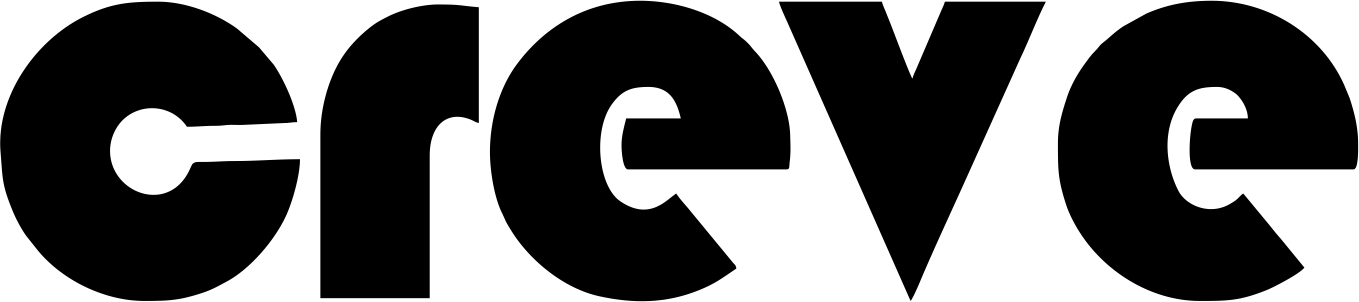
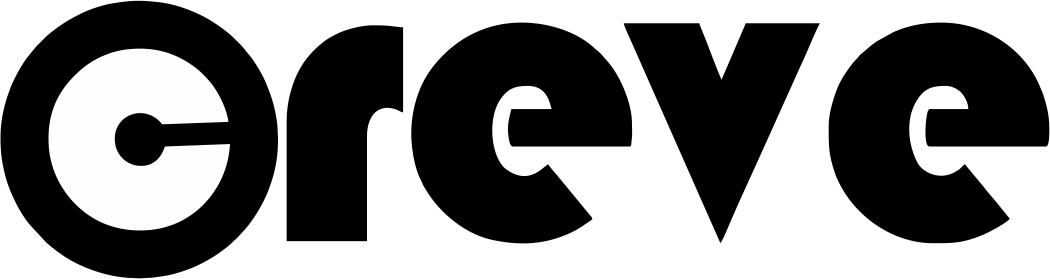
Latest

diff --git a/src/Components/HomeComp.jsx b/src/Components/HomeComp.jsx
@@ -4,40 +4,40 @@ import { FaArrowRightLong } from "react-icons/fa6";
 import { MdMoving } from "react-icons/md";
 const HomeComp = () => {
   return (
-    <div className='bg-black flex px-[13rem] py-[8rem] items-center h-full'>
+    <div className='bg-black lg:flex lg:px-[13rem] px-5 lg:py-[8rem] py-[7rem] items-center h-full'>
         
         <div className='w-full'>
-            <h2 className='text-5xl font-bold text-white'>HIRING MADE EASY !</h2>
-            <h3 className='text-3xl text-white py-5'>Hire an Expert or Be an Expert .</h3>
-            <p className='text-sm text-slate-300'> 
-                In the ever-evolving landscape of skills and knowledge, the choice between <br />
+            <h2 className='lg:text-5xl text-3xl font-bold text-white'>HIRING MADE EASY !</h2>
+            <h3 className='lg:text-3xl text-xl text-white py-5'>Hire an Expert or Be an Expert .</h3>
+            <p className='lg:text-sm text-xs text-slate-300 lg:w-10/12 w-full'> 
+                In the ever-evolving landscape of skills and knowledge, the choice between 
                 hiring an expert or becoming one yourself is a pivotal decision.
             </p>
             
-            <form action="" className='relative w-[30rem]' >
+            <form action="" className='relative lg:w-[30rem]' >
                 <input type="text" placeholder='Search here' 
-                    className='py-4 px-5 border-none bg-white mt-5 w-full  outline-none rounded-lg'
+                    className='py-4 px-5 border-none bg-white mt-5 w-full text-xs  outline-none rounded-lg'
                     required
                 />
 
-                <button className='rounde-lg bg-black text-white py-4 px-5 absolute right-2 top-6 rounded-lg'>
+                <button className='rounde-lg bg-black text-white py-3 px-4 absolute right-1 top-6 rounded-lg'>
                     <FaArrowRightLong />
                 </button>
 
             </form>
             <div className='pt-8'>
                 <p className='text-sm text-neutral-400 pb-3'>Popular Services</p>
-                <div className='flex text-white gap-3'>
+                <div className='lg:flex grid grid-cols-2 text-white gap-3'>
                     
-                    <button className='bg-neutral-900 w-[10rem] py-3 px-5 flex items-center rounded-md text-xs'>
+                    <button className='bg-neutral-900 lg:w-[10rem] w-full py-3 px-5 flex items-center rounded-md text-xs'>
                         Furniture <p className='flex  items-center justify-center bg-white p-2 text-black rounded-md ml-auto'><MdMoving /></p>
                     </button>
 
-                    <button className='bg-neutral-900 w-[10rem] py-3 px-5 flex items-center rounded-md text-xs'>
+                    <button className='bg-neutral-900 lg:w-[10rem] w-full py-3 px-5 flex items-center rounded-md text-xs'>
                         Web Design <p className='flex  items-center justify-center bg-white p-2 text-black rounded-md ml-auto'><MdMoving /></p>
                     </button>
 
-                    <button className='bg-neutral-900 w-[10rem] py-3 px-5 flex items-center rounded-md text-xs'>
+                    <button className='bg-neutral-900 lg:w-[10rem] w-full py-3 px-5 flex items-center rounded-md text-xs'>
                         Fashion <p className='flex  items-center justify-center bg-white p-2 text-black rounded-md ml-auto'><MdMoving /></p>
                     </button>
 
@@ -46,7 +46,7 @@ const HomeComp = () => {
         </div>
 
 
-        <div className='w-3/5 ml-auto'>
+        <div className='w-3/5 ml-auto lg:block hidden'>
             <img src={hero} alt="" className='w-full'/>
         </div>
     </div>

diff --git a/src/Components/Navbar.jsx b/src/Components/Navbar.jsx
@@ -1,19 +1,25 @@
 import React from 'react'
 import logo from './Images/Creve.png'
+import logo1 from './Images/Creve1.png'
+import { MdPeople } from "react-icons/md";
 
 const Navbar = () => {
   return (
     <div className='py-10 bg-black' >
-        <div className='w-10/12 fixed bg-white left-0 right-0 flex m-auto py-5 px-10 rounded-lg'>
-            <div className='w-20'>
+        <div className='lg:w-10/12 w-11/12 fixed bg-white left-0 right-0 flex items-center m-auto py-3 lg:px-10 px-3 rounded-lg backdrop-filter backdrop-blur-lg bg-opacity-90'>
+            <div className='lg:block w-24 hidden'>
                 <img src={logo} alt="" className='cursor-pointer'/>
             </div>
 
-            <ul className='flex ml-auto gap-10 text-xs'>
+            <div className='lg:hidden w-10 block'>
+                <img src={logo1} alt="" className='cursor-pointer'/>
+            </div>
+
+            <ul className='flex items-center ml-auto lg:gap-10 gap-3 text-xs'>
                 <li className='cursor-pointer'>About</li>
-                <li className='cursor-pointer'>Hire Creatives</li>
+                <li className='cursor-pointer'>Hire Now</li>
                 <li className='cursor-pointer'>Login</li>
-                <li className='cursor-pointer'>Join</li>
+                <li className='cursor-pointer bg-black flex gap-2 items-center lg:py-3 lg:px-5 px-3 py-2 rounded-md text-white'>Join <MdPeople /></li>
             </ul>
         </div>
     </div>
